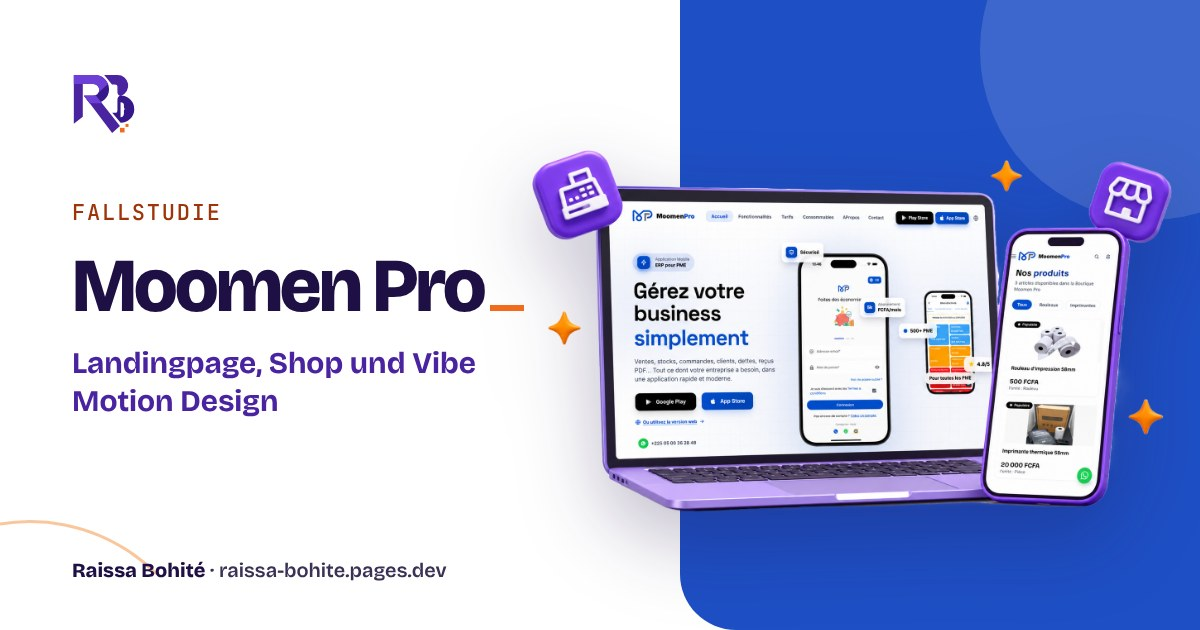
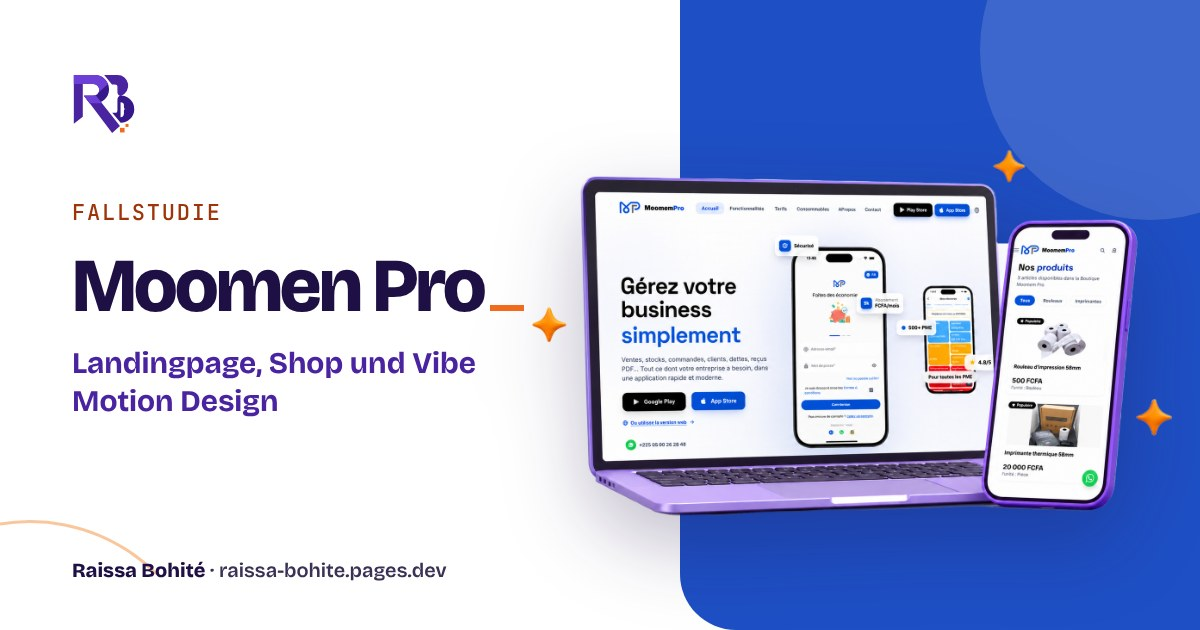
feat: use cut-out new mockups on case study covers and share images
Claude-Session: https://claude.ai/code/session_01D16CuuDxEnBE1zydCRyRzs

Changed region(s): [[0.4317, 0.2413, 0.9867, 0.8444]]

diff --git a/src/lib/social-image.ts b/src/lib/social-image.ts
@@ -2,7 +2,7 @@ import type { Locale } from '@/i18n/config';
 
 // À incrémenter quand les images sont régénérées (scripts/generate-social-images.cjs) :
 // LinkedIn, Facebook et WhatsApp gardent l'aperçu en cache par adresse
-export const SOCIAL_IMAGE_VERSION = 2;
+export const SOCIAL_IMAGE_VERSION = 3;
 
 export const defaultSocialImagePath = '/og-image-v3.jpg';
 
